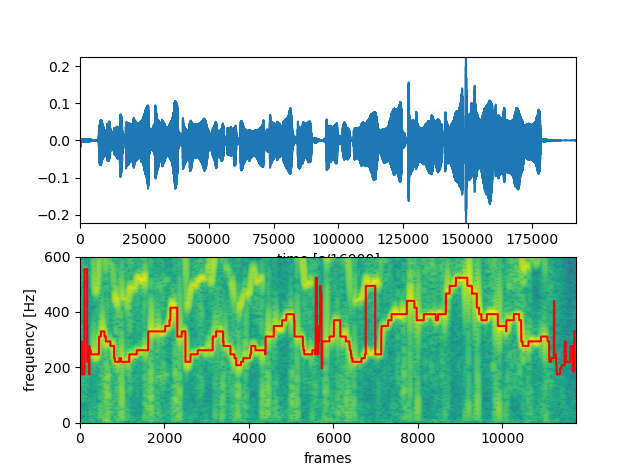
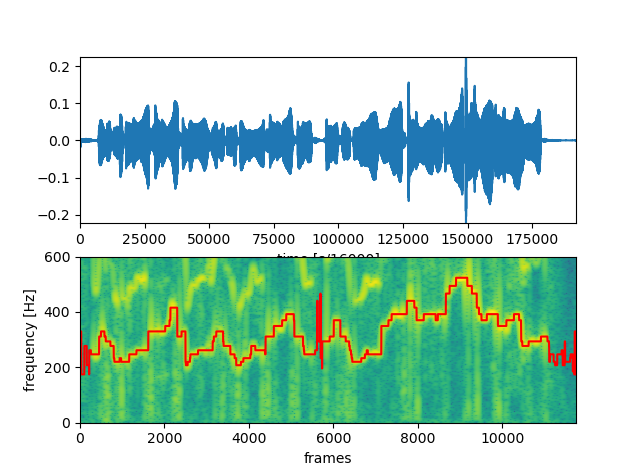
a few fix

diff --git a/exercise/exercise17/melody_man.py b/exercise/exercise17/melody_man.py
@@ -34,13 +34,13 @@ def calc_melody_likelihood(spectrum, notenum):
 	melody_likelihood = 0
 
 	# 基本周波数
-	s_idx = int(len(spectrum * 1) * (fundamental_frequency / (SR/2)))
+	s_idx = int(len(spectrum) * (fundamental_frequency / (SR/2)))
 	melody_likelihood += spectrum[s_idx]
 	# 2倍音
-	s_idx = int(len(spectrum * 2) * (fundamental_frequency / (SR/2)))
+	s_idx = int(len(spectrum) * (fundamental_frequency * 2 / (SR/2)))
 	melody_likelihood += spectrum[s_idx] * 0.75
 	# 3倍音
-	s_idx = int(len(spectrum * 3) * (fundamental_frequency / (SR/2)))
+	s_idx = int(len(spectrum) * (fundamental_frequency * 3 / (SR/2)))
 	melody_likelihood += spectrum[s_idx] * 0.50
 
 	return melody_likelihood

diff --git a/exercise/exercise17/melody_voice.py b/exercise/exercise17/melody_voice.py
@@ -34,13 +34,13 @@ def calc_melody_likelihood(spectrum, notenum):
 	melody_likelihood = 0
 
 	# 基本周波数
-	s_idx = int(len(spectrum * 1) * (fundamental_frequency / (SR/2)))
+	s_idx = int(len(spectrum) * (fundamental_frequency / (SR/2)))
 	melody_likelihood += spectrum[s_idx]
 	# 2倍音
-	s_idx = int(len(spectrum * 2) * (fundamental_frequency / (SR/2)))
+	s_idx = int(len(spectrum) * (fundamental_frequency * 2 / (SR/2)))
 	melody_likelihood += spectrum[s_idx] * 0.75
 	# 3倍音
-	s_idx = int(len(spectrum * 3) * (fundamental_frequency / (SR/2)))
+	s_idx = int(len(spectrum) * (fundamental_frequency * 3 / (SR/2)))
 	melody_likelihood += spectrum[s_idx] * 0.50
 
 	return melody_likelihood

diff --git a/exercise/exercise17/melody_woman.py b/exercise/exercise17/melody_woman.py
@@ -34,13 +34,13 @@ def calc_melody_likelihood(spectrum, notenum):
 	melody_likelihood = 0
 
 	# 基本周波数
-	s_idx = int(len(spectrum * 1) * (fundamental_frequency / (SR/2)))
+	s_idx = int(len(spectrum) * (fundamental_frequency / (SR/2)))
 	melody_likelihood += spectrum[s_idx]
 	# 2倍音
-	s_idx = int(len(spectrum * 2) * (fundamental_frequency / (SR/2)))
+	s_idx = int(len(spectrum) * (fundamental_frequency * 2 / (SR/2)))
 	melody_likelihood += spectrum[s_idx] * 0.75
 	# 3倍音
-	s_idx = int(len(spectrum * 3) * (fundamental_frequency / (SR/2)))
+	s_idx = int(len(spectrum) * (fundamental_frequency * 3 / (SR/2)))
 	melody_likelihood += spectrum[s_idx] * 0.50
 
 	return melody_likelihood

diff --git a/exercise/exercise18/melody_anima.py b/exercise/exercise18/melody_anima.py
@@ -34,13 +34,13 @@ def calc_melody_likelihood(spectrum, notenum):
 	melody_likelihood = 0
 
 	# 基本周波数
-	s_idx = int(len(spectrum * 1) * (fundamental_frequency / (SR/2)))
+	s_idx = int(len(spectrum) * (fundamental_frequency / (SR/2)))
 	melody_likelihood += spectrum[s_idx]
 	# 2倍音
-	s_idx = int(len(spectrum * 2) * (fundamental_frequency / (SR/2)))
+	s_idx = int(len(spectrum) * (fundamental_frequency * 2 / (SR/2)))
 	melody_likelihood += spectrum[s_idx] * 0.75
 	# 3倍音
-	s_idx = int(len(spectrum * 3) * (fundamental_frequency / (SR/2)))
+	s_idx = int(len(spectrum) * (fundamental_frequency * 3 / (SR/2)))
 	melody_likelihood += spectrum[s_idx] * 0.50
 
 	return melody_likelihood
